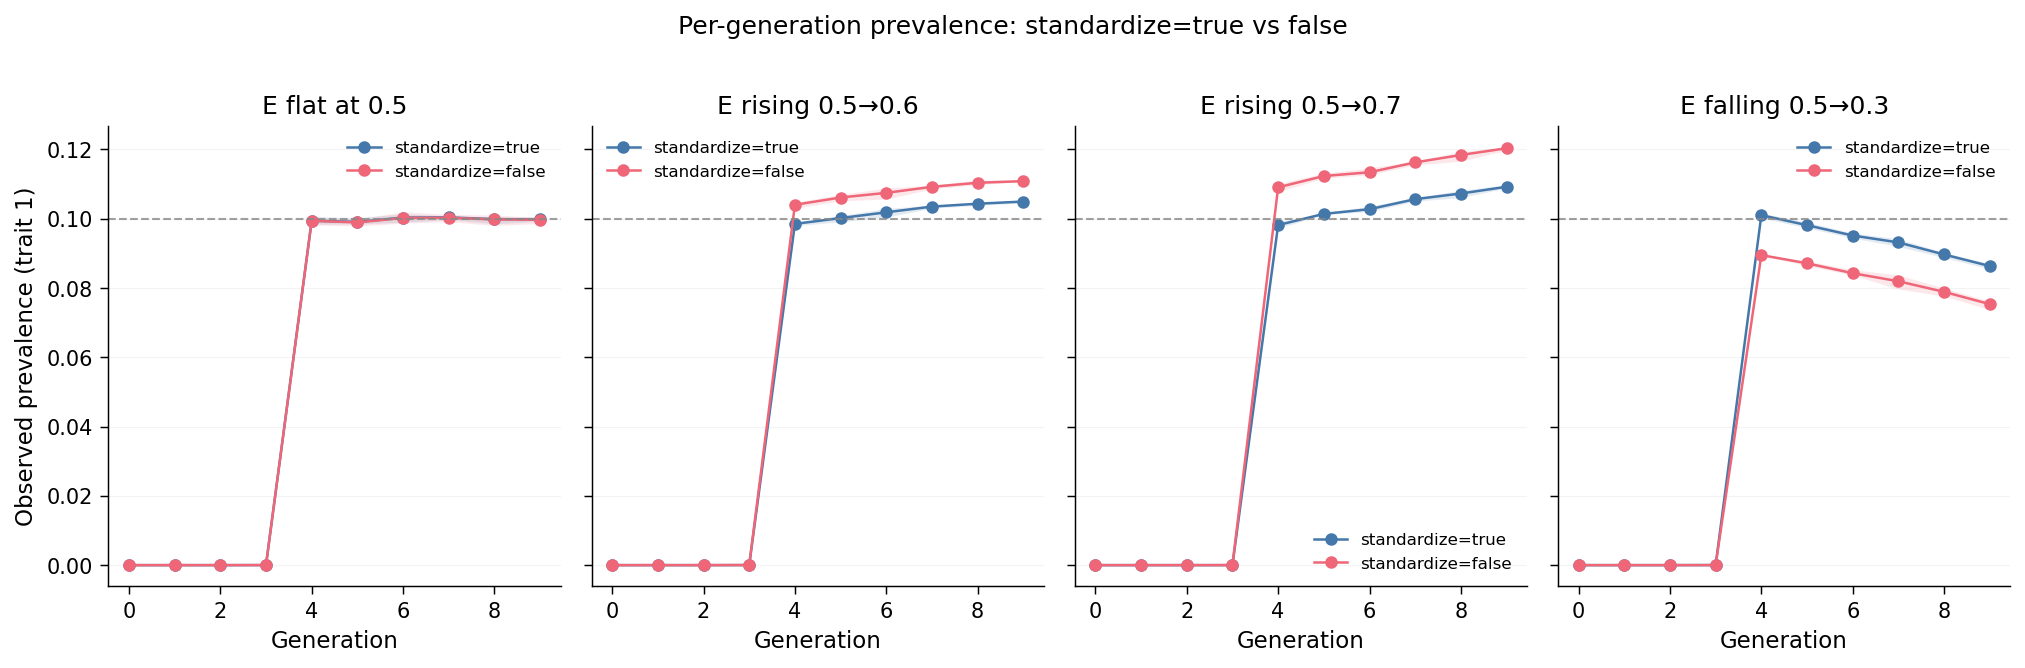
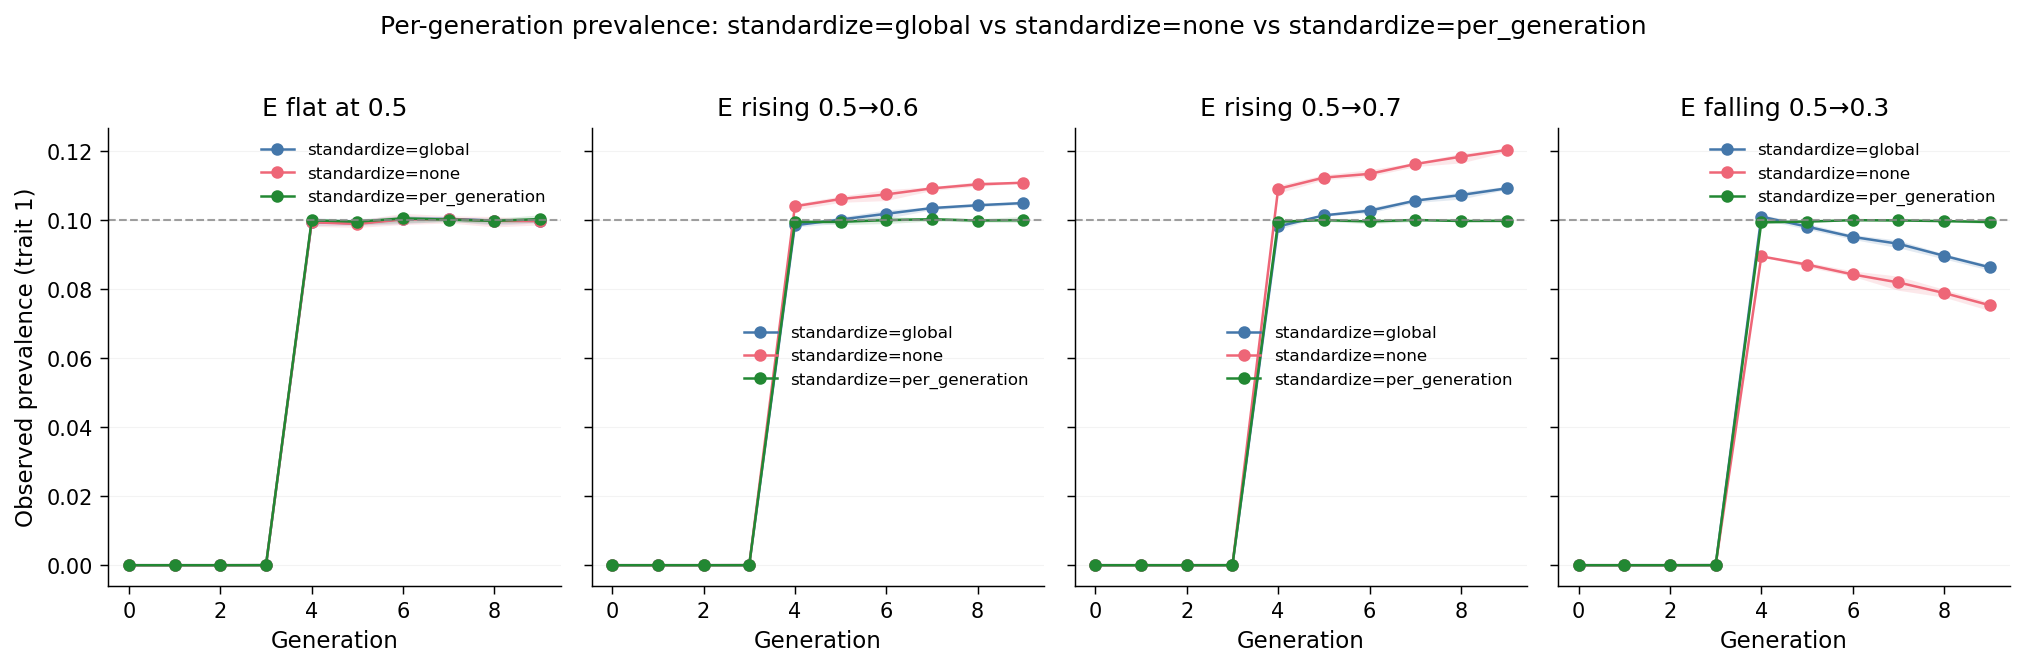
examples: add e_*_pergen scenarios and regen prevalence_drift.png
Four new example scenarios — ``e_flat_pergen``, ``e_rise_mild_pergen``,
``e_rise_steep_pergen``, ``e_fall_steep_pergen`` — copy the existing
``_std`` E-trajectory scenarios with matched seeds and
``standardize: per_generation``. Together with the existing ``_std`` and
``_nostd`` pairs they form a three-mode comparison set for the
docs/examples/time-varying-e.md page.

The ``compare_increasing_e_prevalence`` rule now feeds all three modes
into ``compare_prevalence_drift``; ``prevalence_drift.png`` is
regenerated with three lines per panel. The new green per_generation
line sits flat at K=0.10 across all four E trajectories, which is the
direct visual demonstration of why the new mode exists.

diff --git a/workflow/scripts/simace/compare_increasing_e_prevalence.py b/workflow/scripts/simace/compare_increasing_e_prevalence.py
@@ -1,4 +1,4 @@
-"""Snakemake wrapper: per-gen prevalence under standardize=true vs false."""
+"""Snakemake wrapper: per-gen prevalence under standardize=global, none, and per_generation."""
 
 from pathlib import Path
 
@@ -12,21 +12,25 @@ def _run_snakemake():
     labels = snakemake.params.labels
     reps_per_trajectory = snakemake.params.reps_per_trajectory
 
-    # Inputs are ordered: all std reps for traj 0, all nostd reps for traj 0,
-    # all std reps for traj 1, all nostd reps for traj 1, etc.
+    # Inputs are ordered: for each trajectory, all _std reps, then all _nostd
+    # reps, then all _pergen reps; then move to the next trajectory.
     inputs = list(snakemake.input)
     std_paths: list[list[Path]] = []
     nostd_paths: list[list[Path]] = []
+    pergen_paths: list[list[Path]] = []
     offset = 0
     for n_reps in reps_per_trajectory:
         std_paths.append([Path(p) for p in inputs[offset : offset + n_reps]])
         offset += n_reps
         nostd_paths.append([Path(p) for p in inputs[offset : offset + n_reps]])
         offset += n_reps
+        pergen_paths.append([Path(p) for p in inputs[offset : offset + n_reps]])
+        offset += n_reps
 
     compare_prevalence_drift(
         std_paths_per_trajectory=std_paths,
         nostd_paths_per_trajectory=nostd_paths,
+        pergen_paths_per_trajectory=pergen_paths,
         labels=labels,
         output_path=Path(snakemake.output[0]),
         trait=1,
